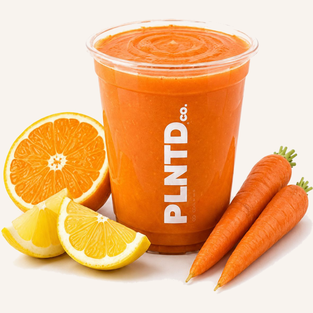
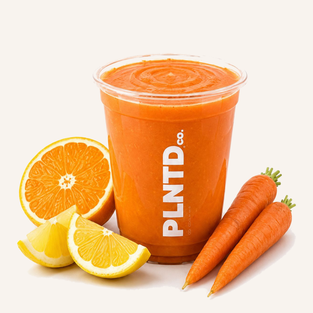
Menu: align new juice images to reference size/position
Measured content bbox of existing juices (height 247px, bottom
anchored at y=300 on 313px canvas) and reprocessed Carrot Glow,
Citrus Boost, Sunrise Carrot to the same geometry.

diff --git a/data.js b/data.js
@@ -30,9 +30,9 @@ window.MENU = [
     items: [
       { name: 'Garden Green',      ingr: 'cucumber, celery, kale', price: 6.00, color: '#3E7A1E', img: 'assets/drinks/juice-garden-green.png?v=6',
         allergens: [], nutrition: { kj: 210, kcal: 50, fat: 0.3, satFat: 0, carbs: 11, sugars: 6, fibre: 2, protein: 2, sodium: 30 }, noAddedSugar: true },
-      { name: 'Carrot Glow',       ingr: 'carrot, apple, ginger', price: 6.00, color: '#CA3D00', img: 'assets/drinks/juice-carrot-glow.png?v=8',
+      { name: 'Carrot Glow',       ingr: 'carrot, apple, ginger', price: 6.00, color: '#CA3D00', img: 'assets/drinks/juice-carrot-glow.png?v=9',
         allergens: [], nutrition: { kj: 460, kcal: 110, fat: 0.3, satFat: 0, carbs: 26, sugars: 20, fibre: 3, protein: 1, sodium: 35 }, noAddedSugar: true },
-      { name: 'Sunrise Carrot',    ingr: 'carrot, orange, lemon', price: 6.00, color: '#CA3D00', img: 'assets/drinks/juice-sunrise-carrot.png?v=8',
+      { name: 'Sunrise Carrot',    ingr: 'carrot, orange, lemon', price: 6.00, color: '#CA3D00', img: 'assets/drinks/juice-sunrise-carrot.png?v=9',
         allergens: [], nutrition: { kj: 550, kcal: 130, fat: 0.3, satFat: 0, carbs: 31, sugars: 25, fibre: 4, protein: 2, sodium: 30 }, noAddedSugar: true },
       { name: 'Daily Cleanse',     ingr: 'apple, carrot, ginger', price: 6.00, color: '#3E7A1E', img: 'assets/drinks/juice-daily-cleanse.png?v=7',
         allergens: [], nutrition: { kj: 630, kcal: 150, fat: 0.4, satFat: 0, carbs: 37, sugars: 30, fibre: 4, protein: 1, sodium: 12 }, noAddedSugar: true },
@@ -40,7 +40,7 @@ window.MENU = [
         allergens: [], nutrition: { kj: 590, kcal: 140, fat: 0.3, satFat: 0, carbs: 35, sugars: 28, fibre: 3, protein: 0, sodium: 5 }, noAddedSugar: true },
       { name: 'Apple Zing',        ingr: 'apple, mint, ginger', price: 6.00, color: '#3E7A1E', img: 'assets/drinks/juice-apple-zing.png?v=6',
         allergens: [], nutrition: { kj: 590, kcal: 140, fat: 0.3, satFat: 0, carbs: 35, sugars: 28, fibre: 3, protein: 0, sodium: 5 }, noAddedSugar: true },
-      { name: 'Citrus Boost',      ingr: 'orange, lemon, carrot', price: 6.00, color: '#DF9A00', img: 'assets/drinks/juice-citrus-boost.png?v=8',
+      { name: 'Citrus Boost',      ingr: 'orange, lemon, carrot', price: 6.00, color: '#DF9A00', img: 'assets/drinks/juice-citrus-boost.png?v=9',
         allergens: [], nutrition: { kj: 550, kcal: 130, fat: 0.3, satFat: 0, carbs: 31, sugars: 25, fibre: 4, protein: 2, sodium: 25 }, noAddedSugar: true },
       { name: 'Vitamin C Blast',   ingr: 'orange, pineapple, lemon', price: 6.00, color: '#DF9A00', img: 'assets/drinks/juice-vitamin-c-blast.png?v=6',
         allergens: [], nutrition: { kj: 710, kcal: 170, fat: 0.4, satFat: 0, carbs: 41, sugars: 35, fibre: 4, protein: 2, sodium: 8 }, noAddedSugar: true },
